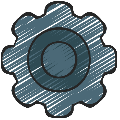
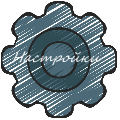
ядро

Changed region(s): [[0.1, 0.425, 0.875, 0.55]]

diff --git a/Ядро.py b/Ядро.py
@@ -39,8 +39,8 @@ while running:
                 playful_button = sprays.sprite_button("sprays\\button\\старт_1.png", int(sizes_x // 3), int(sizes_y // 2))  # не добавляем текст если мы не в размерах кнопки
 
             # Проверка Кнопки настроек
-            if int(sizes_x // 3 - 117 // 2) <= mouse_pos_x <= int(117//2+sizes_x // 3) and int(sizes_y // 2 - 130 // 2) <= mouse_pos_y <= int(130 // 2 + sizes_y // 2):  # добавляем текст если мы в размерах кнопки
-                playful_button = sprays.sprite_button("sprays\\button\\старт_2.png", int(sizes_x // 3), int(sizes_y // 2))
+            if int(sizes_x // 3 * 2 - 120 // 2) <= mouse_pos_x <= int(120//2+(sizes_x // 3 * 2)) and int((sizes_y // 2) - 120 // 2) <= mouse_pos_y <= int((120 // 2) + sizes_y // 2):  # добавляем текст если мы в размерах кнопки
+                settings_button = sprays.sprite_button("sprays\\button\\настройки_2.png", int((sizes_x // 3) * 2), int(sizes_y // 2))
 
                 # Нажата кнопка закрывает этот файл закрываем, а с основной игрой запускаем
 
@@ -48,7 +48,7 @@ while running:
                     # тут запуск файла
                     running = False
             else:
-                playful_button = sprays.sprite_button("sprays\\button\\старт_1.png", int(sizes_x // 3), int(sizes_y // 2))  # не добавляем текст если мы не в размерах кнопки
+                settings_button = sprays.sprite_button("sprays\\button\\настройки_1.png", int((sizes_x // 3) * 2), int(sizes_y // 2))  # не добавляем текст если мы не в размерах кнопки
 
         screen.blit(original_background, (0, 0))
         screen.blit(playful_button.image, playful_button.rect)
